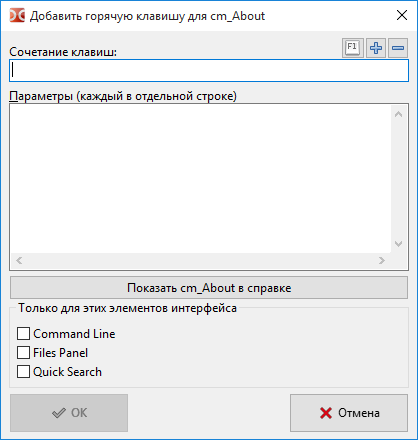
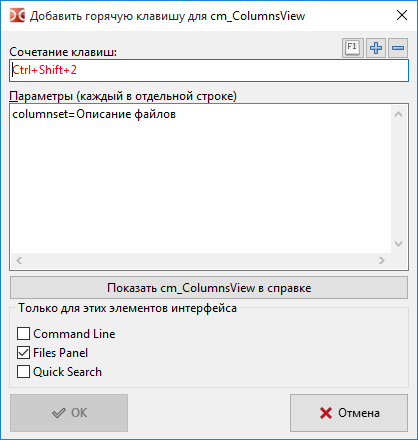
CHG/FIX: configuration.html, shortcuts.html: Using F8/Del and Shift+F8/Shift+Del. (#69)
UPD: Screenshots.
Other small fixes/changes.

diff --git a/doc/ru/configuration.html b/doc/ru/configuration.html
@@ -155,8 +155,8 @@
 
       <div>
         <h2><a name="settings">2. Настройки</a></h2>
-        <p>Диалоговое окно "Настройки" позволяет изменить почти все параметры Double Commander, но есть <a href="configxml.html">несколько параметров</a>, которые можно изменить только вручную в файле конфигурации <tt>doublecmd.xml</tt>. В нижней части окна доступен фильтр по названию параметра: программа отобразит только те разделы, которые содержат совпадающий параметр.</p>
-        <p>Для открытия соответствующего раздела в справке программы вы можете воспользоваться кнопкой <span class="italic">Помощь</span> или клавишей <kbd>F1</kbd>.</p>
+        <p>Диалоговое окно "Настройки" позволяет изменить почти все параметры Double Commander, но есть <a href="configxml.html">несколько параметров</a>, которые можно изменить только вручную в файле конфигурации <tt>doublecmd.xml</tt>.</p>
+        <p>В нижней части окна доступен фильтр по названию параметра: программа отобразит только те разделы, которые содержат совпадающий параметр. Для открытия соответствующего раздела в справке программы вы можете воспользоваться кнопкой <span class="italic">Помощь</span> или клавишей <kbd>F1</kbd>.</p>
         <p>В Double Commander есть несколько <a href="cmds.html#catconfiguration">внутренних команд</a> для открытия диалога настроек и быстрого перехода к нужному разделу.</p>
         <p>Double Commander поддерживает импорт/экспорт некоторых настроек: избранные каталоги, избранные вкладки, внешние архиваторы, панель инструментов (главная и центральная), подсказки. Также список горячие клавиш можно сохранить в новый файл и вы можете переключаться между ними.</p>
         <p>Примечание: Справа от кнопок выбора файла или каталога находится кнопка <span class="italic">Некоторые функции для выбора подходящего пути</span> <img title="Некоторые функции для выбора подходящего пути" alt="Некоторые функции для выбора подходящего пути" src="images/imgDC/bhelper.png" width="16" height="16">: всплывающее меню содержит списки переменных (включая переменные окружения) и некоторые дополнительные функции, описание смотрите <a href="directoryhotlist.html#helperpath">здесь</a>.</p>
@@ -419,7 +419,7 @@
         <p>Окно для добавления горячих клавиш:</p>
         <p class="figure"><img class="largeimage" title="Добавить новую горячую клавишу" alt="Добавить новую горячую клавишу" src="images/imgDC/ris33.png" width="418" height="440"></p>
         <p><span class="italic">Сочетание клавиш</span>&nbsp;&ndash; здесь отображается новое клавиатурное сочетание для команды. Поставьте курсор в эту строку и нажмите желаемую комбинацию клавиш. Если новая комбинация уже используется для другой команды, Double Commander покажет предупреждение.</p>
-        <p><span class="italic">Параметры (каждый в отдельной строке)</span>&nbsp;&ndash; здесь можно добавить какие-нибудь параметры команды. Большинство параметров должны быть добавлены как <span class="italic">параметр=значение</span> (если не указано иное), каждый должен быть в отдельной строке, без кавычек и других способов экранирования специальных символов и пробелов.</p>
+        <p><span class="italic">Параметры (каждый в отдельной строке)</span>&nbsp;&ndash; здесь можно добавить какие-нибудь параметры команды. Большинство параметров должны быть добавлены как <span class="italic">параметр=значение</span> (если не указано иное), каждый должен быть в отдельной строке, без кавычек и других способов экранирования специальных символов и пробелов. Кнопка ниже откроет описание команды в <a href="cmds.html">соответствующем файле справки</a> Double Commander.</p>
         <p><span class="italic">Только для этих элементов интерфейса</span>&nbsp;&ndash; Горячая клавиша будет работать, только если выбранный элемент(ы) интерфейса в фокусе: командная строка, файловая панель или панель быстрого поиска.</p>
         <p>В правой части окна расположены следующие кнопки:</p>
         <ul>
@@ -759,7 +759,7 @@
         <p><span class="italic">При переименовании выделять только имя файла, без расширения</span>&nbsp;&ndash; Если включено, при переименовании с помощью клавиши <kbd>F2</kbd> будут выделены все символы в имени файла до последней точки, в противном случае имя файла будет выделено целиком.</p>
         <p><span class="italic">Показывать панель выбора вкладок в диалоге копирования/перемещения</span>&nbsp;&ndash; Если при копировании/перемещении в целевой панели открыто несколько вкладок, то будет предоставлен выбор, в какую вкладку копировать/перемещать:</p>
         <p class="figure"><img class="largeimage" title="Вкладки в диалоге копирования/перемещения" alt="Вкладки в диалоге копирования/перемещения" src="images/imgDC/ris43.png" width="534" height="298"></p>
-        <p><span class="italic">Удаление в Корзину (с Shift - окончательно)</span>&nbsp;&ndash; Если включено, Double Commander удалит выбранные файлы или файл под курсором в корзину, когда вы нажимаете <kbd>F8</kbd> или <kbd>Del</kbd> или навсегда, когда вы используете <kbd>Shift+F8</kbd> или <kbd>Shift+Del</kbd>. Если не отмечено, <kbd>F8</kbd> или <kbd>Del</kbd> удалит их навсегда.</p>
+        <p><span class="italic">Удаление в Корзину (с Shift - окончательно)</span>&nbsp;&ndash; Если включено, Double Commander удалит выбранные файлы или файл под курсором в корзину, когда вы нажимаете <kbd>F8</kbd> или <kbd>Del</kbd>, или навсегда, когда вы используете <kbd>Shift+F8</kbd> или <kbd>Shift+Del</kbd>. Если не отмечено, поведение этих клавиш будет инвертировано.</p>
         <p><span class="italic">Показывать окно подтверждения для следующих операций</span>&nbsp;&ndash; позволяет выбрать операции с файлами, для которых Double Commander будет показывать диалог подтверждения. По умолчанию выбрано максимально безопасное поведение. Имейте в виду, эта группа параметров не учитывается, когда вы используете <a href="help.html#draganddrop">перетаскивание мышью</a>: в этом случае Double Commander использует независимый параметр в разделе настроек <a href="#ConfigMouseDD">Мышь&nbsp;&gt; Перетаскивание</a>.</p>
         <p>Следующие параметры напрямую связаны с выполнением операций.</p>
         <p>Параметры <span class="italic">Размер буфера для файловых операций (Кб)</span> и <span class="italic">Размер буфера для вычисления хеша (Кб)</span> задают размер выделенной памяти для таких операций, как копирование, перемещение, разрезание или сборка файлов, поиск файлов по содержимому и вычисление контрольных сумм. Следует иметь в виду, что универсального значения не существует, но можно попробовать найти более подходящий размер.<br>

diff --git a/doc/en/configuration.html b/doc/en/configuration.html
@@ -155,8 +155,8 @@
 
       <div>
         <h2><a name="settings">2. Configuration</a></h2>
-        <p>The "Options" window allows to set almost all of the options in Double Commander, but there are <a href="configxml.html">several parameters</a> that can only be changed manually in the <tt>doublecmd.xml</tt> configuration file. A filter by parameter name is available at the bottom of the window: the program will display only those sections that contain a matching parameter.</p>
-        <p>To open the corresponding section in the program help, you can use the <span class="italic">Help</span> button or the <kbd>F1</kbd> key.</p>
+        <p>The "Options" window allows to set almost all of the options in Double Commander, but there are <a href="configxml.html">several parameters</a> that can only be changed manually in the <tt>doublecmd.xml</tt> configuration file.</p>
+        <p>A filter by parameter name is available at the bottom of the window: the program will display only those sections that contain a matching parameter. To open the corresponding section in the program help, you can use the <span class="italic">Help</span> button or the <kbd>F1</kbd> key.</p>
         <p>Double Commander has several <a href="cmds.html#catconfiguration">internal commands</a> to open the configuration dialog and quickly jump to the desired section.</p>
         <p>Double Commander supports importing/exporting some settings: directory hotlist, favorite tabs, external archivers, toolbar (main and middle), tooltips. Also, the list of hotkeys can be saved to a new file and you can switch between them.</p>
         <p>Note: To the right of the file or directory choose buttons is the button <span class="italic">Some functions to select appropriate path</span> <img title="Some functions to select appropriate path" alt="Some functions to select appropriate path" src="images/imgDC/bhelper.png" width="16" height="16">: the popup menu contains lists of variables (including environment variables) and some additional functions, see description <a href="directoryhotlist.html#helperpath">here</a>.</p>
@@ -419,7 +419,7 @@
         <p>A window for adding hotkeys:</p>
         <p class="figure"><img class="largeimage" title="Add new hotkey" alt="Add new hotkey" src="images/imgDC/pic33.png" width="418" height="440"></p>
         <p><span class="italic">Shortcuts</span>&nbsp;&ndash; new shortcut displays here. Click in the box and press combination on keyboard to enter new hot key. If the new combination is already being used for another command, Double Commander will show a warning.</p>
-        <p><span class="italic">Parameters (each in a separate line):</span>&nbsp;&ndash; allows to set some parameters for the command. Most parameters must be added as <span class="italic">parameter=value</span> (unless otherwise stated), each must be in a separate line, without quotes and other ways of escaping special characters and spaces.</p>
+        <p><span class="italic">Parameters (each in a separate line):</span>&nbsp;&ndash; allows to set some parameters for the command. Most parameters must be added as <span class="italic">parameter=value</span> (unless otherwise stated), each must be in a separate line, without quotes and other ways of escaping special characters and spaces. The button below will open a description of the command in the <a href="cmds.html">corresponding help file</a> of Double Commander.</p>
         <p><span class="italic">Only for these controls</span>&nbsp;&ndash; The hotkey will only work if the selected interface element(s) has focus: command line, files or quick search panel.</p>
         <p>The following buttons are located on the right side of the window:</p>
         <ul>
@@ -759,7 +759,7 @@
         <p><span class="italic">Select file name without extension when renaming</span>&nbsp;&ndash; If enabled, renaming with the <kbd>F2</kbd> key will select all characters in the file name up to the last dot, otherwise the entire file name will be selected.</p>
         <p><span class="italic">Show tab select panel in copy/move dialog</span>&nbsp;&ndash; If the target panel has more than one tab, on copy/move you can choose the destination tab:</p>
         <p class="figure"><img class="largeimage" title="Tabs in copy/move dialog" alt="Tabs in copy/move dialog" src="images/imgDC/pic43.png" width="534" height="298"></p>
-        <p><span class="italic">Delete to recycle bin (Shift key reverses this setting)</span>&nbsp;&ndash; If enabled, Double Commander will delete the selected files or the file under the cursor to trash (recycle bin) when you press <kbd>F8</kbd> or <kbd>Del</kbd> and will delete permanently when you use <kbd>Shift+F8</kbd> or <kbd>Shift+Del</kbd>. If unchecked, <kbd>F8</kbd> or <kbd>Del</kbd> will delete them permanently.</p>
+        <p><span class="italic">Delete to recycle bin (Shift key reverses this setting)</span>&nbsp;&ndash; If enabled, Double Commander will delete the selected files or the file under the cursor to trash (recycle bin) when you press <kbd>F8</kbd> or <kbd>Del</kbd> and will delete permanently when you use <kbd>Shift+F8</kbd> or <kbd>Shift+Del</kbd>. If unchecked, the behavior of this keys will be inverted.</p>
         <p><span class="italic">Show confirmation window for</span>&nbsp;&ndash; allows to choose the file operations for which Double Commander will show confirmation dialogs. The maximum secure behavior is chosen by default. Keep in mind that this group of parameters is not taken into account when you use <a href="help.html#draganddrop">drag &amp; drop</a>: in this case, Double Commander uses an independent parameter in the <a href="ConfigMouseDD">Mouse&nbsp;&gt; Drag &amp; drop</a> settings section.</p>
         <p>The following parameters are directly related to the execution of operations.</p>
         <p>The <span class="italic">Buffer size for file operations (in KB)</span> and <span class="italic">Buffer size for hash calculation (in KB)</span> parameters set the size of the allocated memory for operations such as copying, moving, splitting or combining files, searching for files by content and calculating checksums. You should keep in mind that there is no universal value, but you can try to find a more suitable size.<br>

diff --git a/doc/ru/syncdirs.html b/doc/ru/syncdirs.html
@@ -45,7 +45,7 @@
         <p>В верхней части окна расположены поля с текущими каталогами левой и правой файловых панелей. Мы можем изменить их вручную или с помощью кнопки выбора каталога.</p>
         <p>Между ними расположено поле фильтра файлов по маске (звёздочка "*" обозначает любое количество символов, знак вопроса "?"&nbsp;&ndash; любой один символ). Файлы, которые не совпадают с маской, будут проигнорированы. Если типов файлов несколько, то они перечисляются через точку с запятой ";" без пробелов. Также мы можем использовать шаблоны поиска (<img title="Шаблон..." alt="Шаблон..." src="images/imgDC/btemplate.png" width="16" height="16">), в том числе поиска с информационными (контентными) плагинами. Значение по умолчанию "*" (все файлы).</p>
         <p>Кнопка со стрелкой вниз открывает список использованых масок файлов (имейте в виду, что Double Commander сохраняет общую историю масок файлов для нескольких инструментов: поиск файлов, синхронизация каталогов, распаковка архивов, команды выделения групп файлов). По умолчанию Double Commander сохраняет (независимо от состояния опции <a href="configuration.html#ConfigDC">Историю масок файлов</a>) последнюю использованную маску файлов как маску по умолчанию для следующего запуска инструмента синхронизации (если это не шаблон поиска), смотрите <a href="#asettings">Дополнительные настройки</a>.</p>
-        <p>Чтобы исключить каталоги и символьные ссылки на каталоги, мы можем использовать шаблон поиска и поле <span class="italic">Исключить подкаталоги</span>: мы можем указать имена папок и относительные или абсолютные пути.</p>
+        <p>Чтобы исключить каталоги и символьные ссылки на каталоги, мы можем использовать шаблон поиска и поле <a href="findfiles.html#standard">Исключить подкаталоги</a>.</p>
         <p><span class="italic">Сравнить</span>&nbsp;&ndash; начинает сравнение выбранных каталогов. Прогресс операции сравнения отображается в строке состояния. Если это необходимо, операцию можно прервать клавишей <kbd>Esc</kbd>.</p>
         <p>Параметры:</p>
         <ul>

diff --git a/doc/ru/cmds.html b/doc/ru/cmds.html
@@ -2856,7 +2856,7 @@
                   <td class="innerdescdesccell"><b>ни одна</b> из существующих вкладок не будет сохранена</td>
                 </tr>
                 <tr>
-                  <td class="innerdescparamcell" colspan="3">Также можно просто подставить имя файла в качестве единственного параметра и DC загрузит TAB-файл "как есть": вкладки слева и вкладки справа будут восстановлены в левой и правой панели соответственно (сохранено для обеспечения обратной совместимости).</td>
+                  <td class="innerdescparamcell" colspan="3">Также можно просто указать имя файла в качестве единственного параметра и DC загрузит TAB-файл "как есть": вкладки слева и вкладки справа будут восстановлены в левой и правой панели соответственно (сохранено для обеспечения обратной совместимости).</td>
                 </tr>
               </table>
             </td>
@@ -2891,7 +2891,7 @@
                   <td class="innerdescdesccell">история каталогов не будет сохранена</td>
                 </tr>
                 <tr>
-                  <td class="innerdescparamcell" colspan="3">Также можно просто подставить имя файла в качестве единственного параметра и DC сохранит TAB-файл (сохранено для обеспечения обратной совместимости).</td>
+                  <td class="innerdescparamcell" colspan="3">Также можно просто указать имя файла в качестве единственного параметра и DC сохранит TAB-файл (сохранено для обеспечения обратной совместимости).</td>
                 </tr>
               </table>
             </td>

diff --git a/doc/ru/findfiles.html b/doc/ru/findfiles.html
@@ -59,7 +59,7 @@
           <li><p><span class="italic">В открытых вкладках</span>&nbsp;&ndash; будут использоваться только каталоги открытых вкладок (вкладки активной и неактивной панелей).</p></li>
           <li><p><span class="italic">Выделенные файлы и каталоги</span>&nbsp;&ndash; если включено, то поиск будет вестись только среди выделенных в активной панели файлов и папок. Если в файловой панели есть выделенные файлы/папки, то этот параметр будет включен автоматически.</p></li>
           <li><p><span class="italic">Следовать ссылкам</span>&nbsp;&ndash; если будет найдена символьная ссылка на каталог, целевой каталог будет прочитан и использован, иначе эта символьная ссылка будет считаться обычным файлом.</p></li>
-          <li><p><span class="italic">Исключить подкаталоги</span>&nbsp;&ndash; список каталогов, которые нужно исключить из поиска, здесь мы можем указать имена папок и относительные или абсолютные пути.</p></li>
+          <li><p><span class="italic">Исключить подкаталоги</span>&nbsp;&ndash; список масок каталогов, которые нужно исключить из поиска, здесь мы можем указать имена папок и относительные или абсолютные пути.</p></li>
           <li><p><span class="italic">Глубина вложенности подкаталогов</span> может принимать значения:</p>
           <ul>
             <li><p>только текущий,</p></li>

diff --git a/doc/en/syncdirs.html b/doc/en/syncdirs.html
@@ -45,7 +45,7 @@
         <p>In the top of the window there are fields with the current directories of the left and right file panels. We can change them manually or by using the button to choose a directory.</p>
         <p>Between them there is a field for filtering files by mask (symbol "*" means match any number of characters, symbol "?" means any one character). Files that do not match the mask will be ignored. We may put multiple file types here using a semicolon ";" without spaces between them. Also we can use search templates (<img title="Template..." alt="Template..." src="images/imgDC/btemplate.png" width="16" height="16">), including search with content plugins. The default value is "*" (all files).</p>
         <p>The button with an arrow opens the list of the used file masks (keep in mind that Double Commander saves a general history of file masks for several tools: find files, directory synchronization, archive unpacking, commands for selecting a group of files). By default, Double Commander saves (regardless of the state of the <a href="configuration.html#ConfigDC">File mask history</a> option) the last used file mask as the default mask for the next run of the synchronization tool (if it is not a search template), see <a href="#asettings">Additional settings</a>.</p>
-        <p>To exclude directories and symbolic links to directories, we can use the search template and the <span class="italic">Exclude subdirectories</span> field: we can specify folder names and relative or absolute paths.</p>
+        <p>To exclude directories and symbolic links to directories, we can use the search template and the <a href="findfiles.html#standard">Exclude subdirectories</a> field.</p>
         <p><span class="italic">Compare</span>&nbsp;&ndash; starts comparing the chosen directories. The progress of the compare operation is displayed in the status bar. If necessary, the operation can be interrupted with the <kbd>Esc</kbd> key.</p>
         <p>Parameters:</p>
         <ul>

diff --git a/doc/en/findfiles.html b/doc/en/findfiles.html
@@ -59,7 +59,7 @@
           <li><p><span class="italic">Opened tabs</span>&nbsp;&ndash; only directories of opened tabs will be used (tabs of active and inactive panels).</p></li>
           <li><p><span class="italic">Selected directories and files</span>&nbsp;&ndash; if enabled, the search will be conducted only among selected files and folders in the active panel. If there are selected files/folders in the file panel, this option will be enabled automatically.</p></li>
           <li><p><span class="italic">Follow symlinks</span>&nbsp;&ndash; if a symbolic link to a directory is found, the target directory will be read and used, otherwise this symbolic link will be considered a regular file.</p></li>
-          <li><p><span class="italic">Exclude subdirectories</span>&nbsp;&ndash; a list of directories to be excluded from the search, here we can specify folder names and relative or absolute paths.</p></li>
+          <li><p><span class="italic">Exclude subdirectories</span>&nbsp;&ndash; a list of directory masks to be excluded from the search, here we can specify folder names and relative or absolute paths.</p></li>
           <li><p><span class="italic">Search subdirectories</span> can have:</p>
           <ul>
             <li><p>current dir only,</p></li>

diff --git a/doc/ru/shortcuts.html b/doc/ru/shortcuts.html
@@ -107,11 +107,11 @@
           </tr>
           <tr>
             <td class="varcell"><div class="shortcutname">F8, Del</div></td>
-            <td class="hintcell">Удалить выделенные файлы/каталоги в корзину</td>
+            <td class="hintcell">Удалить выделенные файлы/каталоги в корзину, см. <a href="configuration.html#ConfigOperations">Удаление в Корзину (с Shift - окончательно)</a></td>
           </tr>
           <tr>
             <td class="varcell"><div class="shortcutname">Shift+F8, Shift+Del</div></td>
-            <td class="hintcell">Удалить выделенные файлы/каталоги навсегда</td>
+            <td class="hintcell">Удалить выделенные файлы/каталоги навсегда, см. <a href="configuration.html#ConfigOperations">Удаление в Корзину (с Shift - окончательно)</a></td>
           </tr>
           <tr>
             <td class="varcell"><div class="shortcutname">F9</div></td>

diff --git a/doc/en/shortcuts.html b/doc/en/shortcuts.html
@@ -106,11 +106,11 @@
           </tr>
           <tr>
             <td class="varcell"><div class="shortcutname">F8, Del</div></td>
-            <td class="hintcell">Delete selected files/folders to trash (recycle bin)</td>
+            <td class="hintcell">Delete selected files/folders to trash (recycle bin), see <a href="configuration.html#ConfigOperations">Delete to recycle bin (Shift key reverses this setting)</a></td>
           </tr>
           <tr>
             <td class="varcell"><div class="shortcutname">Shift+F8, Shift+Del</div></td>
-            <td class="hintcell">Delete selected files/folders permanently</td>
+            <td class="hintcell">Delete selected files/folders permanently, see <a href="configuration.html#ConfigOperations">Delete to recycle bin (Shift key reverses this setting)</a></td>
           </tr>
           <tr>
             <td class="varcell"><div class="shortcutname">F9</div></td>

diff --git a/doc/ru/lua.html b/doc/ru/lua.html
@@ -179,7 +179,7 @@ i <span class="luasbl">=</span> <span class="luanum">10</span>
             <td class="hintcell">
               <p class="definition">DC.ExecuteCommand(sCommand, Param1, Param2,...,ParamX)</p>
               <p>Вызывает <a href="cmds.html">внутреннюю команду</a> Double Commander <var>sCommand</var> с параметрами <var>Param1</var>..<var>ParamX</var>.</p>
-              <p>Мы можем подставить столько <var>Param...</var>, сколько поддерживает команда <var>Command</var>.</p>
+              <p>Мы можем указать столько <var>Param...</var>, сколько поддерживает команда <var>Command</var>.</p>
             </td>
           </tr>
         </table>
